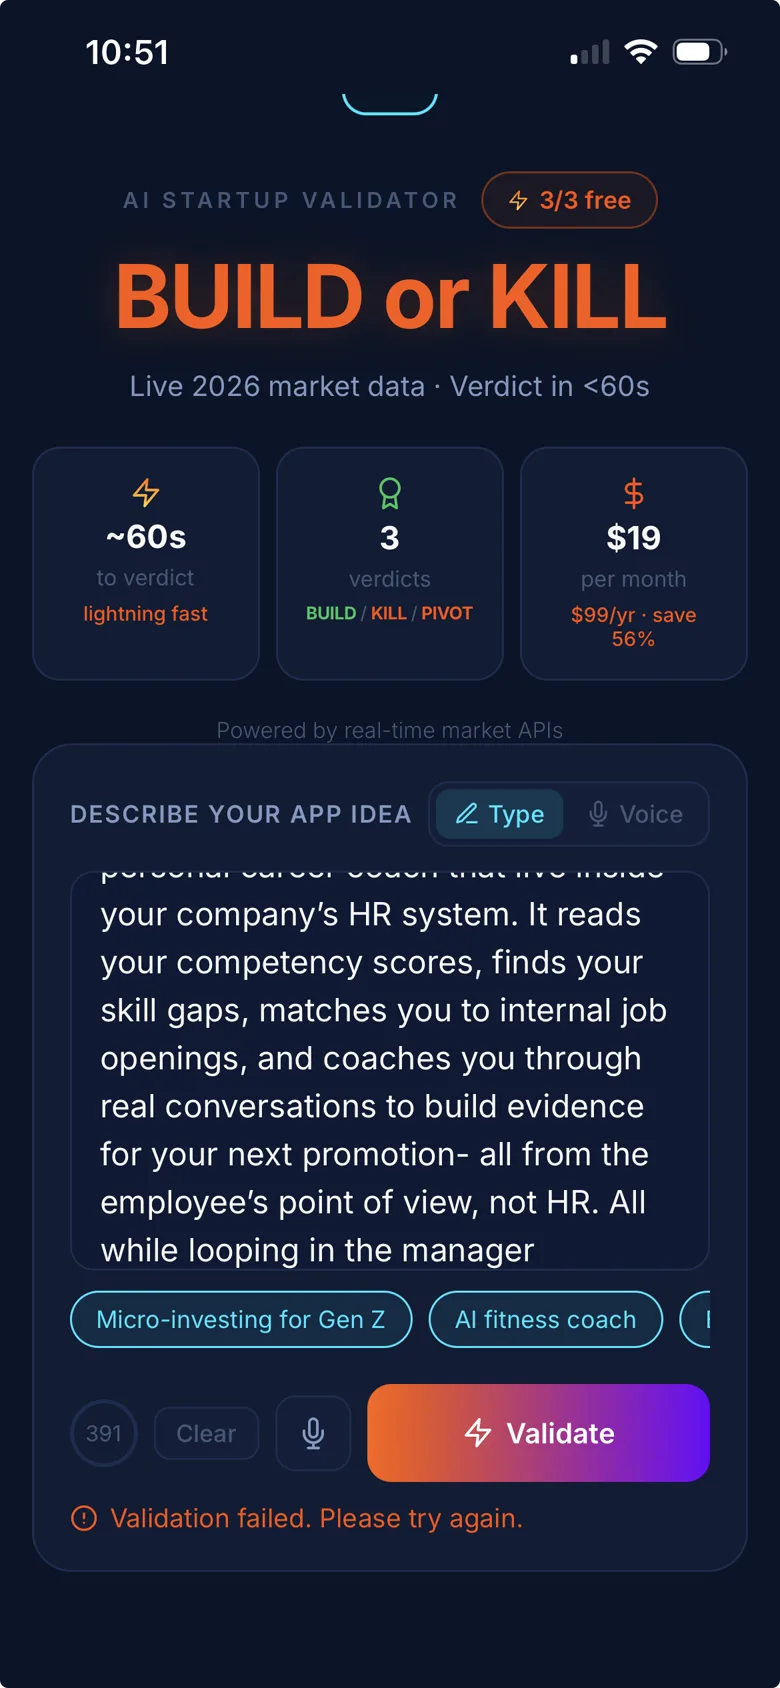
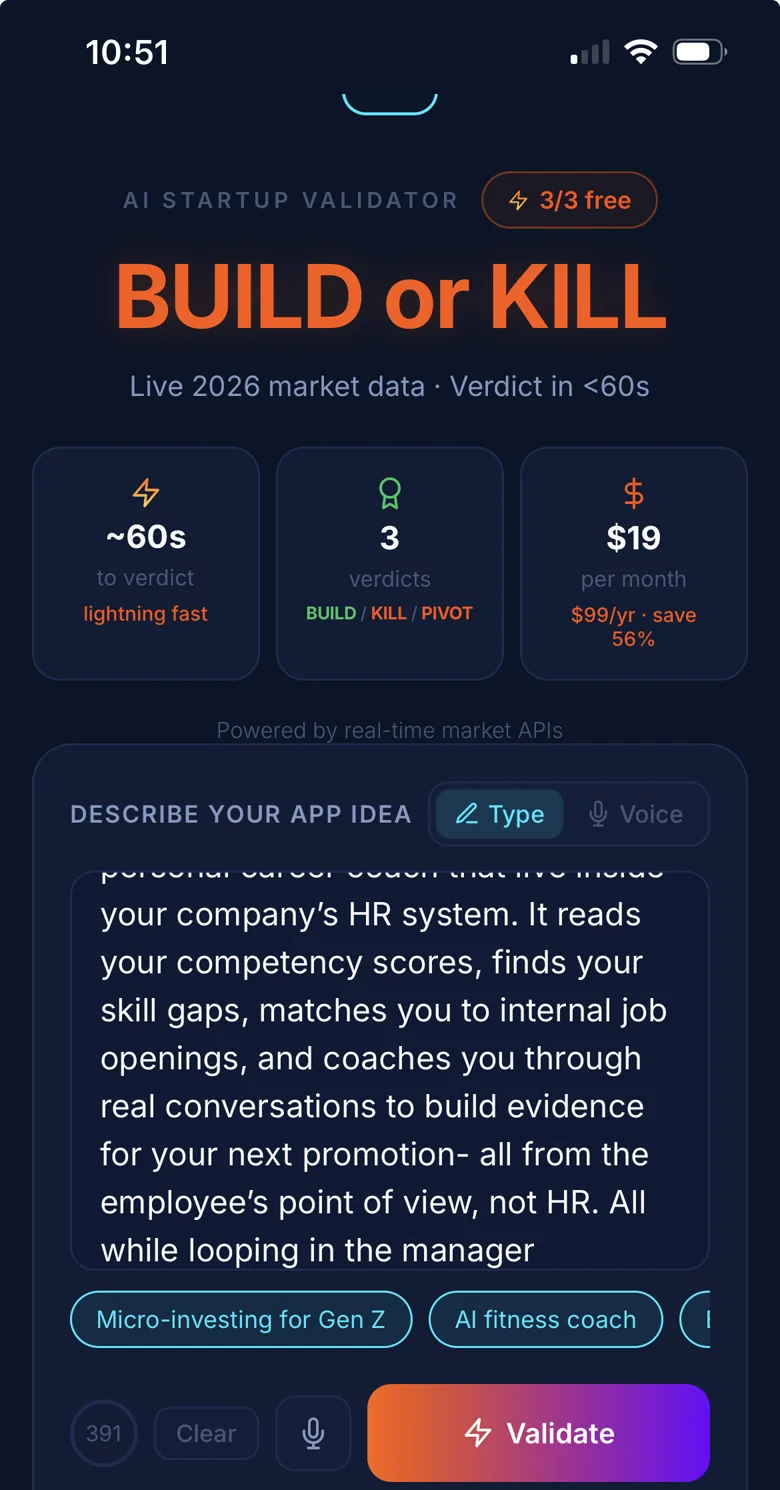
Crop the failed-validation error out of the hero screenshot
The source capture showed 'Validation failed. Please try again.' in red
under the Validate button, which is the last thing a validator's hero
should say. Re-cropped above that line, keeping the Validate button, and
matched the phone frame's aspect to the new crop so cover-cropping does
not eat the card's side edges instead.

Claude-Session: https://claude.ai/code/session_01BCdpieDx7JrPDrLfUnjo6J

diff --git a/scrollcraft/builds/bok-vai/index.html b/scrollcraft/builds/bok-vai/index.html
@@ -58,8 +58,13 @@
   .btn:disabled { opacity: 0.5; cursor: not-allowed; }
 
   /* --------------------------------------------------------- act one --- */
+  /* aspect matches the hero screenshot's own crop (780x1490). The source
+     capture had a "Validation failed" error line under the Validate button,
+     which is the last thing a validator's hero should show, so the asset is
+     cropped above it and the frame matches that crop rather than cover-
+     cropping the card's edges away. */
   .phone-frame {
-    position: relative; width: min(19rem, 62vw); aspect-ratio: 9 / 19.5;
+    position: relative; width: min(19rem, 62vw); aspect-ratio: 780 / 1490;
     border-radius: 2.4rem; padding: 0.45rem;
     background: linear-gradient(160deg, #2A3554, #0C1424);
     box-shadow: var(--sc-e3), var(--sc-edge);
